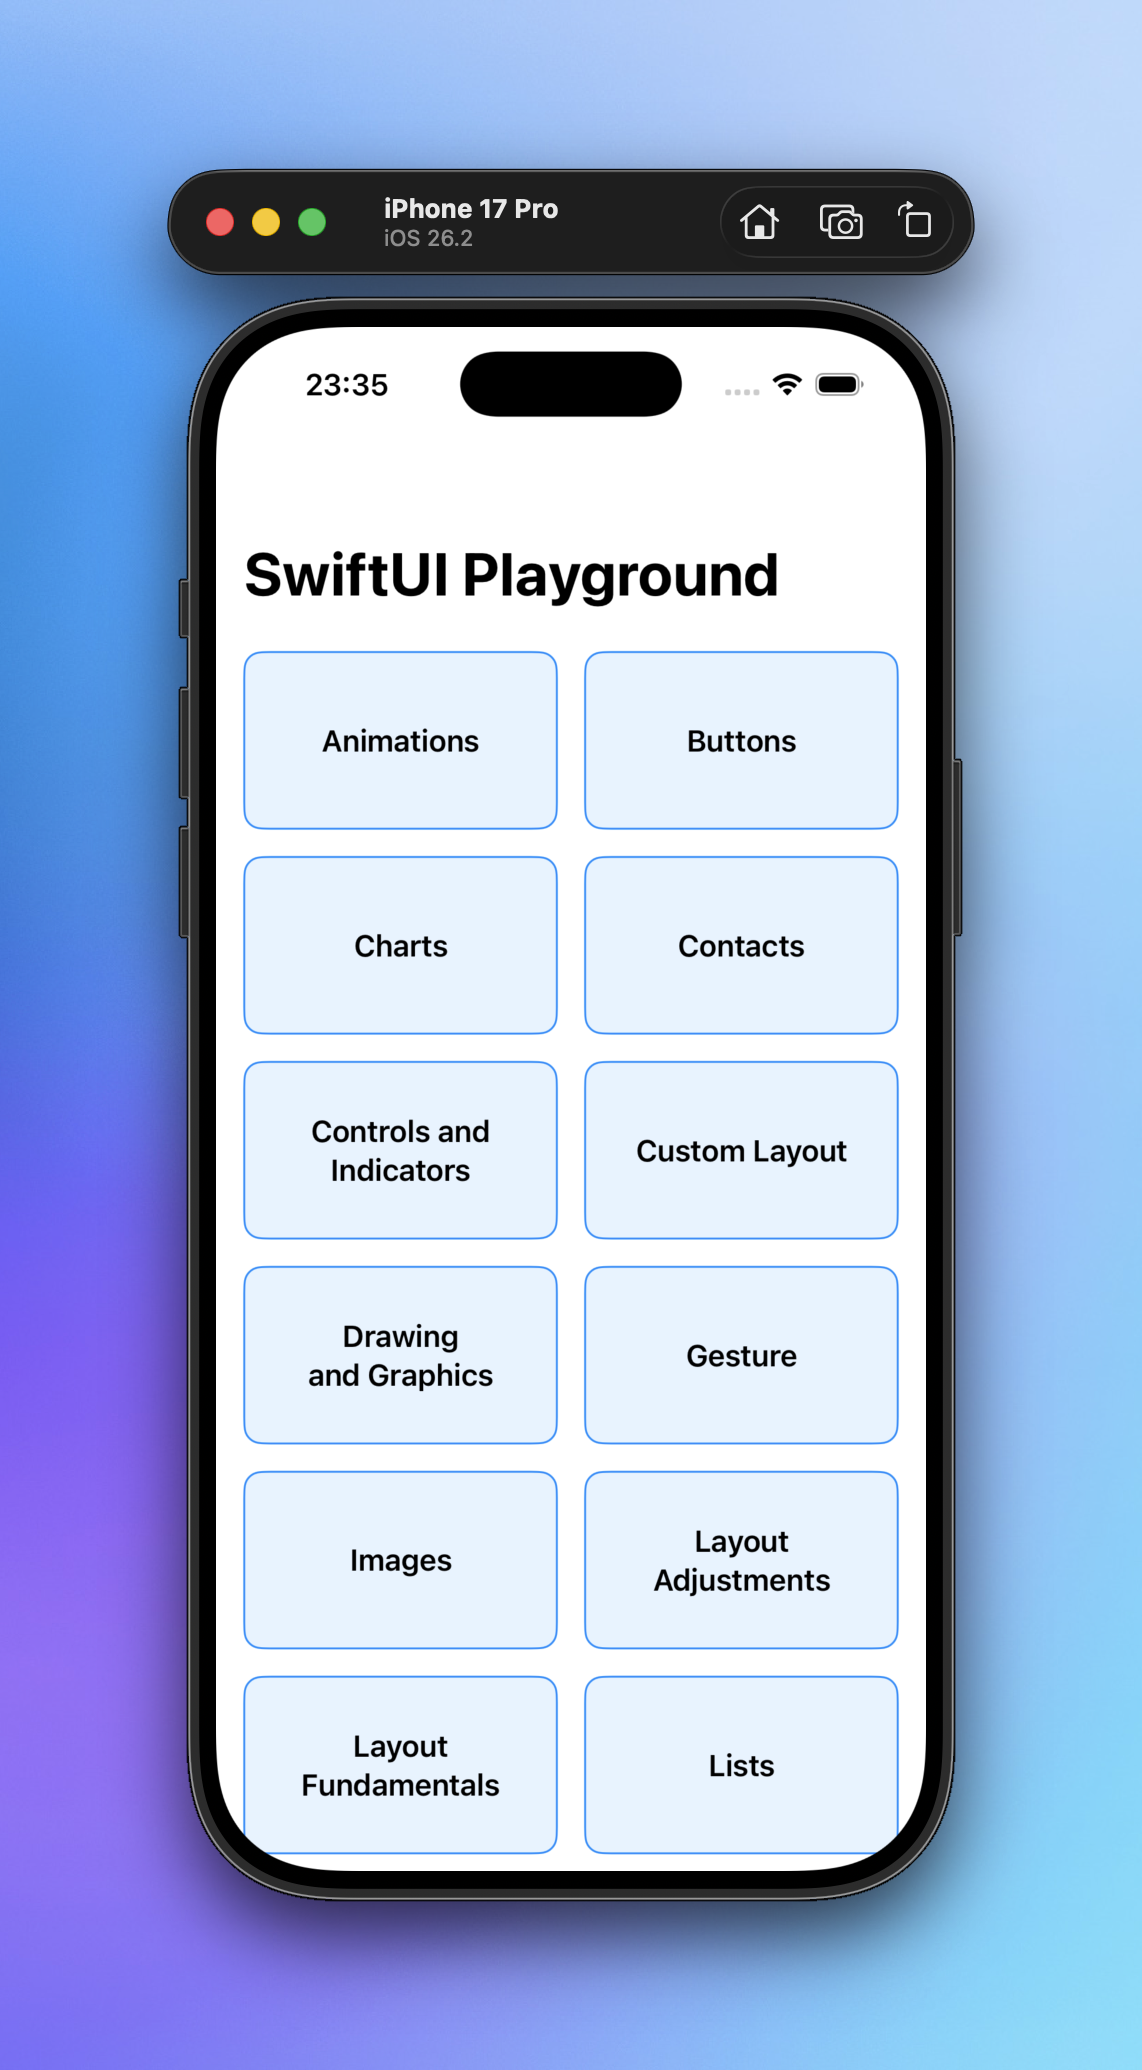
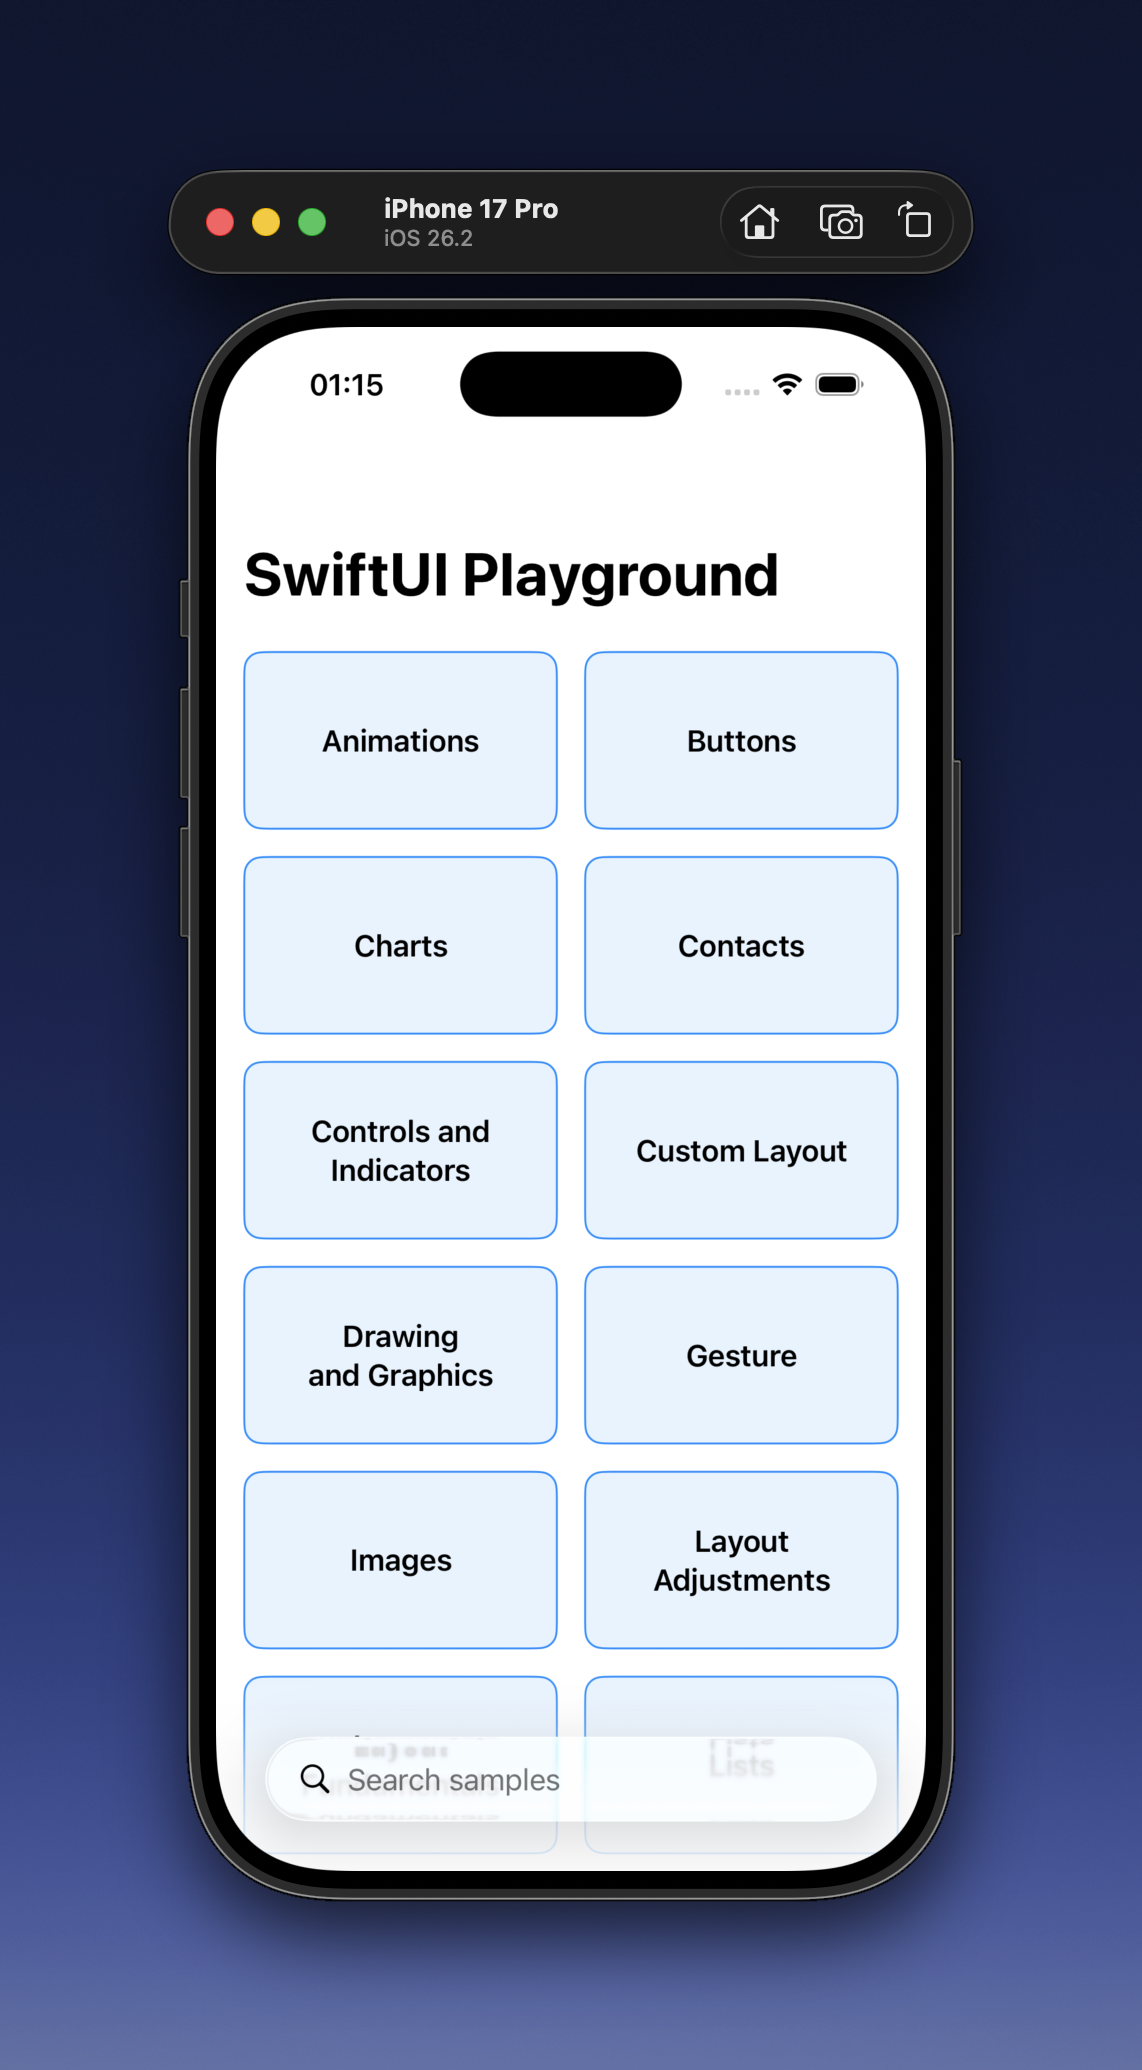
Add sample search

diff --git a/SwiftUIPlayground/SamplesList.swift b/SwiftUIPlayground/SamplesList.swift
@@ -10,6 +10,7 @@ import SwiftUI
 struct SamplesList: View {
   let title: String
   let samples: [SampleItem]
+  @State private var searchText = ""
 
   init(title: String, samples: [SampleItem]) {
     self.title = title
@@ -27,27 +28,37 @@ struct SamplesList: View {
     }
   }
 
+  private var filteredSamples: [SampleItem] {
+    guard !searchText.isEmpty else {
+      return sortedSamples
+    }
+
+    return sortedSamples.filter { sample in
+      sample.title.localizedCaseInsensitiveContains(searchText)
+    }
+  }
+
   var body: some View {
     ScrollView {
       LazyVGrid(columns: columns, spacing: 16) {
-        ForEach(sortedSamples) { sample in
+        ForEach(filteredSamples) { sample in
           NavigationLink(destination: sample.destination) {
             VStack {
               Text(sample.title)
                 .font(.headline)
                 .multilineTextAlignment(.center)
                 .foregroundColor(.primary)
-                .padding(.horizontal)
-                .padding(.vertical, 10)
-                .frame(height: 100)
-                .frame(maxWidth: .infinity)
-                .background(Color.blue.opacity(0.1))
-                .cornerRadius(10)
-                .overlay(
-                  RoundedRectangle(cornerRadius: 10)
-                    .stroke(Color.blue, lineWidth: 1)
-                )
             }
+            .padding(.horizontal)
+            .padding(.vertical, 10)
+            .frame(minHeight: 100)
+            .frame(maxWidth: .infinity)
+            .background(Color.blue.opacity(0.1))
+            .cornerRadius(10)
+            .overlay(
+              RoundedRectangle(cornerRadius: 10)
+                .stroke(Color.blue, lineWidth: 1)
+            )
           }
           .buttonStyle(PlainButtonStyle())
         }
@@ -55,6 +66,7 @@ struct SamplesList: View {
       .padding()
     }
     .navigationTitle(title)
+    .searchable(text: $searchText, prompt: "Search samples")
   }
 }
 

diff --git a/AGENTS.md b/AGENTS.md
@@ -4,4 +4,3 @@ This project is a SwiftUI sample gallery app. The main navigation is a grid of s
 
 ## Instructions
 - Add a sample list entry in `SwiftUIPlayground/Samples.swift` whenever you add a new sample view.
-- Run `swiftformat .` before committing.
